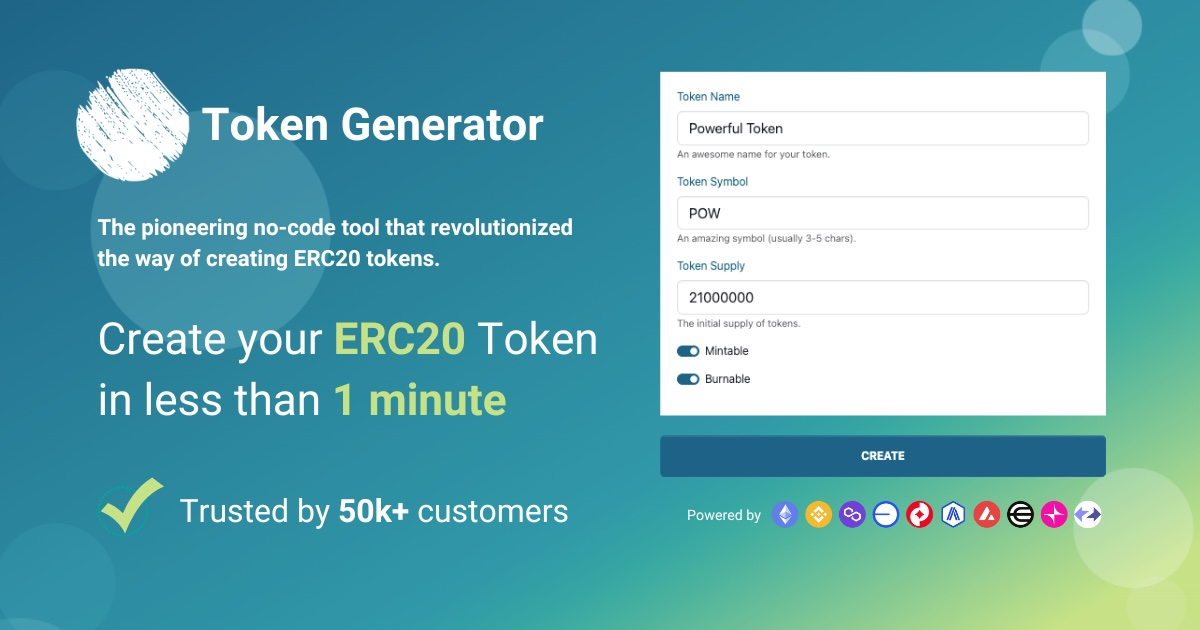
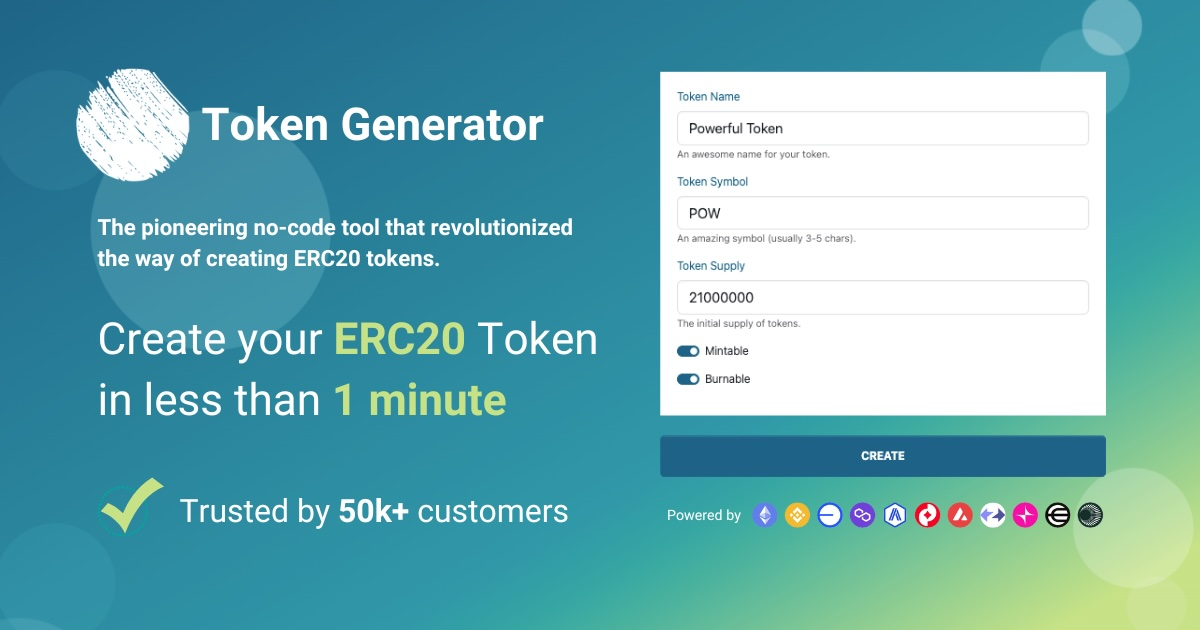
feat: add plasma

Changed region(s): [[0.555, 0.7841, 0.925, 0.8444]]

diff --git a/.vuepress/config.js b/.vuepress/config.js
@@ -69,13 +69,18 @@ module.exports = {
             target: "_self",
           },
           {
+            text: "Create ERC20 on Polygon PoS",
+            link: "https://www.smartcontracts.tools/token-generator/create/polygon/",
+            target: "_self",
+          },
+          {
             text: "Create ERC20 on Base",
             link: "https://www.smartcontracts.tools/token-generator/create/base/",
             target: "_self",
           },
           {
-            text: "Create ERC20 on Polygon PoS",
-            link: "https://www.smartcontracts.tools/token-generator/create/polygon/",
+            text: "Create ERC20 on Avalanche C-Chain",
+            link: "https://www.smartcontracts.tools/token-generator/create/avalanche/",
             target: "_self",
           },
           {
@@ -89,8 +94,8 @@ module.exports = {
             target: "_self",
           },
           {
-            text: "Create ERC20 on Avalanche C-Chain",
-            link: "https://www.smartcontracts.tools/token-generator/create/avalanche/",
+            text: "Create ERC20 on Plasma",
+            link: "https://www.smartcontracts.tools/token-generator/create/plasma/",
             target: "_self",
           },
           {

diff --git a/routes/tutorials/tutorials.md b/routes/tutorials/tutorials.md
@@ -25,11 +25,12 @@ Discover how to Create ERC20 or BEP20 Token in less than a minute.
 
 - [How to create ERC20 Token on Ethereum Network](https://www.smartcontracts.tools/token-generator/tutorials/how-to-create-erc20-token-on-ethereum/)
 - [How to create BEP20 Token on BNB Smart Chain (BSC)](https://www.smartcontracts.tools/token-generator/tutorials/how-to-create-bep20-token-on-bsc/)
-- [How to create ERC20 Token on Base](https://www.smartcontracts.tools/token-generator/tutorials/how-to-create-erc20-token-on-base/)
 - [How to create ERC20 Token on Polygon PoS](https://www.smartcontracts.tools/token-generator/tutorials/how-to-create-erc20-token-on-polygon/)
+- [How to create ERC20 Token on Base](https://www.smartcontracts.tools/token-generator/tutorials/how-to-create-erc20-token-on-base/)
+- [How to create ERC20 Token on Avalanche C-Chain](https://www.smartcontracts.tools/token-generator/tutorials/how-to-create-erc20-token-on-avalanche/)
 - [How to create ERC20 Token on Arbitrum One](https://www.smartcontracts.tools/token-generator/tutorials/how-to-create-erc20-token-on-arbitrum/)
 - [How to create ERC20 Token on Optimism OP Mainnet](https://www.smartcontracts.tools/token-generator/tutorials/how-to-create-erc20-token-on-optimism/)
-- [How to create ERC20 Token on Avalanche C-Chain](https://www.smartcontracts.tools/token-generator/tutorials/how-to-create-erc20-token-on-avalanche/)
+- [How to create ERC20 Token on Plasma](https://www.smartcontracts.tools/token-generator/tutorials/how-to-create-erc20-token-on-plasma/)
 - [How to create ERC20 Token on ZKsync Era](https://www.smartcontracts.tools/token-generator/tutorials/how-to-create-erc20-token-on-zksync/)
 - [How to create ERC20 Token on Unichain](https://www.smartcontracts.tools/token-generator/tutorials/how-to-create-erc20-token-on-unichain/)
 - [How to create ERC20 Token on World Chain](https://www.smartcontracts.tools/token-generator/tutorials/how-to-create-erc20-token-on-worldchain/)
@@ -40,11 +41,12 @@ Discover more [here](https://www.smartcontracts.tools/token-generator/tutorials/
 
 - [Create ERC20 on Ethereum](https://www.smartcontracts.tools/token-generator/create/ethereum/)
 - [Create BEP20 on BNB Smart Chain (BSC)](https://www.smartcontracts.tools/token-generator/create/bsc/)
-- [Create ERC20 on Base](https://www.smartcontracts.tools/token-generator/create/base/)
 - [Create ERC20 on Polygon PoS](https://www.smartcontracts.tools/token-generator/create/polygon/)
+- [Create ERC20 on Base](https://www.smartcontracts.tools/token-generator/create/base/)
+- [Create ERC20 on Avalanche C-Chain](https://www.smartcontracts.tools/token-generator/create/avalanche/)
 - [Create ERC20 on Arbitrum One](https://www.smartcontracts.tools/token-generator/create/arbitrum/)
 - [Create ERC20 on Optimism OP Mainnet](https://www.smartcontracts.tools/token-generator/create/optimism/)
-- [Create ERC20 on Avalanche C-Chain](https://www.smartcontracts.tools/token-generator/create/avalanche/)
+- [Create ERC20 on Plasma](https://www.smartcontracts.tools/token-generator/create/plasma/)
 - [Create ERC20 on ZKsync Era](https://www.smartcontracts.tools/token-generator/create/zksync/)
 - [Create ERC20 on Unichain](https://www.smartcontracts.tools/token-generator/create/unichain/)
 - [Create ERC20 on World Chain](https://www.smartcontracts.tools/token-generator/create/worldchain/)

diff --git a/README.md b/README.md
@@ -50,11 +50,12 @@ You can effortlessly define the token's name, symbol, total supply, and decimal 
 
 - [Ethereum](https://www.smartcontracts.tools/token-generator/ethereum/)
 - [BNB Smart Chain (BSC)](https://www.smartcontracts.tools/token-generator/bsc/)
-- [Base](https://www.smartcontracts.tools/token-generator/base/)
 - [Polygon PoS](https://www.smartcontracts.tools/token-generator/polygon/)
+- [Base](https://www.smartcontracts.tools/token-generator/base/)
+- [Avalanche C-Chain](https://www.smartcontracts.tools/token-generator/avalanche/)
 - [Arbitrum One](https://www.smartcontracts.tools/token-generator/arbitrum/)
 - [Optimism OP Mainnet](https://www.smartcontracts.tools/token-generator/optimism/)
-- [Avalanche C-Chain](https://www.smartcontracts.tools/token-generator/avalanche/)
+- [Plasma](https://www.smartcontracts.tools/token-generator/plasma/)
 - [ZKsync Era](https://www.smartcontracts.tools/token-generator/zksync/)
 - [Unichain](https://www.smartcontracts.tools/token-generator/unichain/)
 - [World Chain](https://www.smartcontracts.tools/token-generator/worldchain/)
@@ -74,11 +75,12 @@ Try it FREE.
 
 - [Create ERC20 on Ethereum](https://www.smartcontracts.tools/token-generator/create/ethereum/)
 - [Create BEP20 on BNB Smart Chain (BSC)](https://www.smartcontracts.tools/token-generator/create/bsc/)
-- [Create ERC20 on Base](https://www.smartcontracts.tools/token-generator/create/base/)
 - [Create ERC20 on Polygon PoS](https://www.smartcontracts.tools/token-generator/create/polygon/)
+- [Create ERC20 on Base](https://www.smartcontracts.tools/token-generator/create/base/)
+- [Create ERC20 on Avalanche C-Chain](https://www.smartcontracts.tools/token-generator/create/avalanche/)
 - [Create ERC20 on Arbitrum One](https://www.smartcontracts.tools/token-generator/create/arbitrum/)
 - [Create ERC20 on Optimism OP Mainnet](https://www.smartcontracts.tools/token-generator/create/optimism/)
-- [Create ERC20 on Avalanche C-Chain](https://www.smartcontracts.tools/token-generator/create/avalanche/)
+- [Create ERC20 on Plasma](https://www.smartcontracts.tools/token-generator/create/plasma/)
 - [Create ERC20 on ZKsync Era](https://www.smartcontracts.tools/token-generator/create/zksync/)
 - [Create ERC20 on Unichain](https://www.smartcontracts.tools/token-generator/create/unichain/)
 - [Create ERC20 on World Chain](https://www.smartcontracts.tools/token-generator/create/worldchain/)
